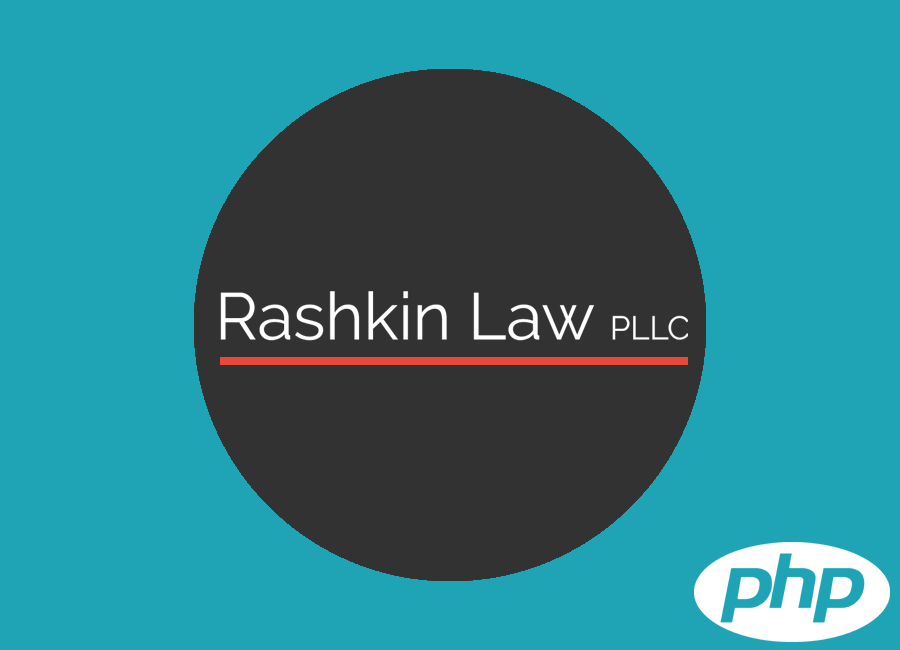
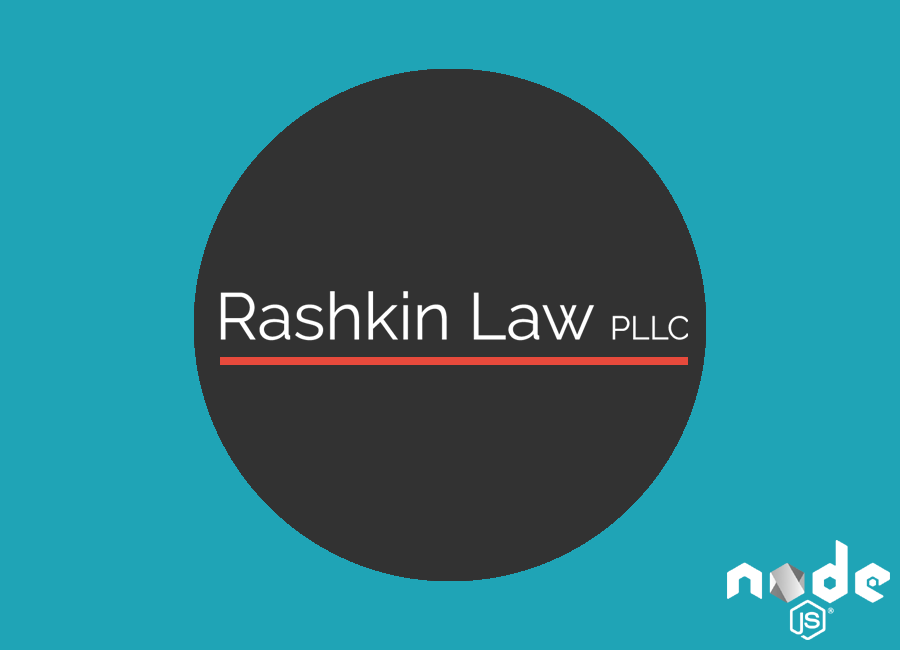
Revised Site descriptions. Moved rashkinlaw and started to top two spots in grid.

Changed region(s): [[0.7467, 0.8308, 0.9956, 1.0]]

diff --git a/index.html b/index.html
@@ -86,6 +86,26 @@
         </div>
         <div class="row">
             <div class="col-sm-6 portfolio-item">
+                <a href="#portfolioModal5" class="portfolio-link" data-toggle="modal">
+                    <div class="caption">
+                        <div class="caption-content">
+                            <i class="fa fa-search-plus fa-3x"></i>
+                        </div>
+                    </div>
+                    <img src="img/portfolio/rashkinlaw.png" class="img-responsive" alt="Rashkin Law">
+                </a>
+            </div>
+            <div class="col-sm-6 portfolio-item">
+                <a href="#portfolioModal4" class="portfolio-link" data-toggle="modal">
+                    <div class="caption">
+                        <div class="caption-content">
+                            <i class="fa fa-search-plus fa-3x"></i>
+                        </div>
+                    </div>
+                    <img src="img/portfolio/started.png" class="img-responsive" alt="started">
+                </a>
+            </div>
+            <div class="col-sm-6 portfolio-item">
                 <a href="#portfolioModal1" class="portfolio-link" data-toggle="modal">
                     <div class="caption">
                         <div class="caption-content">
@@ -113,26 +133,6 @@
                         </div>
                     </div>
                     <img src="img/portfolio/singerlg.png" class="img-responsive" alt="singerlg.com">
-                </a>
-            </div>
-            <div class="col-sm-6 portfolio-item">
-                <a href="#portfolioModal4" class="portfolio-link" data-toggle="modal">
-                    <div class="caption">
-                        <div class="caption-content">
-                            <i class="fa fa-search-plus fa-3x"></i>
-                        </div>
-                    </div>
-                    <img src="img/portfolio/started.png" class="img-responsive" alt="started">
-                </a>
-            </div>
-            <div class="col-sm-6 portfolio-item">
-                <a href="#portfolioModal5" class="portfolio-link" data-toggle="modal">
-                    <div class="caption">
-                        <div class="caption-content">
-                            <i class="fa fa-search-plus fa-3x"></i>
-                        </div>
-                    </div>
-                    <img src="img/portfolio/rashkinlaw.png" class="img-responsive" alt="Rashkin Law">
                 </a>
             </div>
             <!-- <div class="col-sm-4 portfolio-item">
@@ -439,7 +439,7 @@
                         <h2>Rashkin Law, PLLC</h2>
                         <hr class="star-primary">
                         <img src="img/portfolio/rashkinlaw.png" class="img-responsive img-centered" alt="">
-                        <p>I built a website for Rashkin Law, PLLC utilizing Bootstrap. The "services" section on the homepage consists of divs and modals for various services offered by the law firm. This project includes a Node.js script I wrote that creates the divs and modals for each service from a JSON file that contains an object for each service. The script also creates or updates a separate web page for each service. This way, a new service can be added to the website easily by simply adding another object to the JSON file. Also, building the site out in this manner benefits the website's SEO. The website is hosted on a Digital Ocean droplet running Ubuntu for the OS and NGINX for the HTTP server.
+                        <p>I built a website for Rashkin Law, PLLC utilizing Node.js. This project includes a Node.js script I wrote that builds all the public content for the site from templates and pre-built components. The "services" section on the homepage consists of divs and modals for various services offered by the law firm. The script also creates the divs and modals for each service listed on the website from a JSON file that contains an object for each service. The script also creates or updates a separate web page for each service. This way, a new service can be added to the website easily by simply adding another object to the JSON file. Adding these additional web pages to the site benefits the website's SEO. My next step for this website will be to rebuild it using React.js. The website is hosted on a Digital Ocean droplet running Ubuntu for the OS and NGINX for the HTTP server.
                         </p>
                         <ul class="list-inline item-details">
                             <li>Website:
@@ -447,7 +447,7 @@
                                 </strong>
                             </li>
                             <li>Technologies:
-                                <strong><a href="#">PHP, Bootstrap, Javascript, HTML, CSS, Node.js, NGINX, and Linux</a>
+                                <strong><a href="#">Node.js, Express.js, Bootstrap, Javascript, HTML, CSS, NGINX, and Linux</a>
                                 </strong>
                             </li>
                             <li>GitHub:
